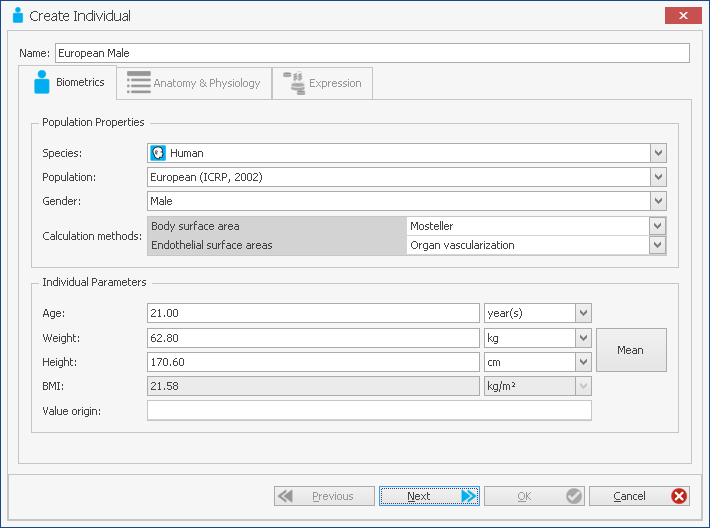
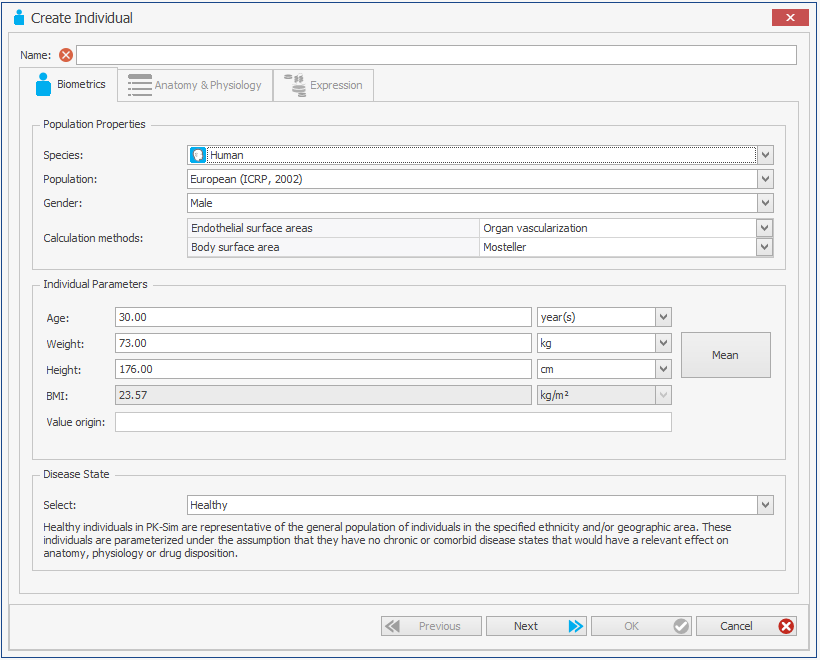
Add CKD description

Changed region(s): [[0.0, 0.0, 1.0, 1.0], [0.8676, 0.6364, 0.8986, 0.6667]]

diff --git a/part-3/pk-sim-creating-individuals.md b/part-3/pk-sim-creating-individuals.md
@@ -16,7 +16,7 @@ In the building block **Individual** the properties of individuals are defined. 
 Please note that the volume of fat tissue is not optimized by the algorithm as this value is used to match the target body weight.
 {% endhint %}
 
-### Definition of new Individual in PK-Sim®
+## Definition of new Individual in PK-Sim®
 
 - Click on **Individual** ![](../assets/icons/Individual.svg) in the **Create New Building Blocks** Group of the Modeling & Simulation Tab
 
@@ -31,7 +31,7 @@ European individual are shown.](../assets/images/part-3/PKSim_Individuals_NewInd
 
 The **Create Individual** building block window is subdivided into three tabs: **Biometrics, Anatomy & Physiology**, and **Expression**.
 
-#### Biometrics
+### Biometrics
 
 In the first drop-down menu you can choose from the following species:
 
@@ -41,23 +41,21 @@ In the first drop-down menu you can choose from the following species:
 
 - Beagle ![](../assets/icons/Beagle.svg)
 
-
 - Dog ![](../assets/icons/Dog.svg)
-
 
 - Minipig ![](../assets/icons/Minipig.svg)
 
-
 - Rat ![](../assets/icons/Rat.svg)
-
 
 - Mouse ![](../assets/icons/Mouse.svg)
 
-
 - Rabbit ![](../assets/icons/Rabbit.svg)
 
+- Cat ![](../assets/icons/Cat.svg.svg)
 
-**Human** 
+- Cattle ![](../assets/icons/Cattle.svg)
+
+### Human
 
 If **Human**  ![](../assets/icons/Human.svg)  is selected, you can select one of the following populations from the next drop-down menu:
 
@@ -103,7 +101,23 @@ Oral administration to preterm neonates is, so far, not possible in PK- Sim®. T
 Please note that gender-specific information for all parameters except body weight and height (biometrics) was not available for preterms.Therefore, it is an assumption that for a given body weight the organ weights and blood flow rates are equal for males and females.
 {% endhint %}
 
-**Animal species**
+#### Disease State
+
+Depending on the selected population, a disease state for the selected individual can be specified. By default, the individual will be created as **Healthy**. 
+
+#### Healthy
+
+Healthy individuals in PK-Sim are representative of the general population of individuals in the specified ethnicity and/or geographic area. These individuals are parameterized under the assumption that they have no chronic or comorbid disease states that would have a relevant effect on anatomy, physiology or drug disposition.
+
+#### Chronic Kidney Disease (CKD)
+
+Chronic kidney disease is renal impairment lasting at least 3 months. The disease is staged according to eGFR. Over time, multiple other body systems are also affected. To apply this disease state to an individual in PK-Sim, first select the targeted eGFR. Accordingly, the individual will display changes in GFR, kidney volume, kidney blood flow, plasma protein binding, hematocrit, gastric emptying time, and small intestinal transit time.
+
+This parameterization is for individuals with CKD who are not on dialysis. It does not modify the expression or activity of enzymes or transporters - only foundational anatomy and physiology. Users should consult scientific literature for information how the relevant enzymes and transporters for their purposes may be affected.
+
+For more information on the implementation, please refer to  \[[122](../references.md#122)\]
+
+### Animal species
 
 If one of the animal species, i.e. **Monkey, Beagle, Dog, Minipig, Rat** or **Mouse** is selected, the menu items are slightly different.
 

diff --git a/references.md b/references.md
@@ -366,3 +366,6 @@ Y. Wu and F. Kesisoglou. _Immediate Release Oral Dosage Forms: Formulation Scree
 #### 121
 [Frechen S, Solodenko J, Wendl T, et al. A generic framework for the physiologically-based pharmacokinetic platform qualification of PK-Sim and its application to predicting cytochrome P450 3A4-mediated drug-drug interactions. CPT Pharmacometrics Syst Pharmacol. 2021;10(6):633-644. doi:10.1002/psp4.12636](https://pubmed.ncbi.nlm.nih.gov/33946131)
 
+#### 122
+[Paul R.V. Malik, Cindy H.T. Yeung, Shams Ismaeil, Urooj Advani, Sebastian Djie, Andrea N. Edginton. A Physiological Approach to Pharmacokinetics in Chronic Kidney Disease](https://accp1.onlinelibrary.wiley.com/doi/full/10.1002/jcph.1713)
+
